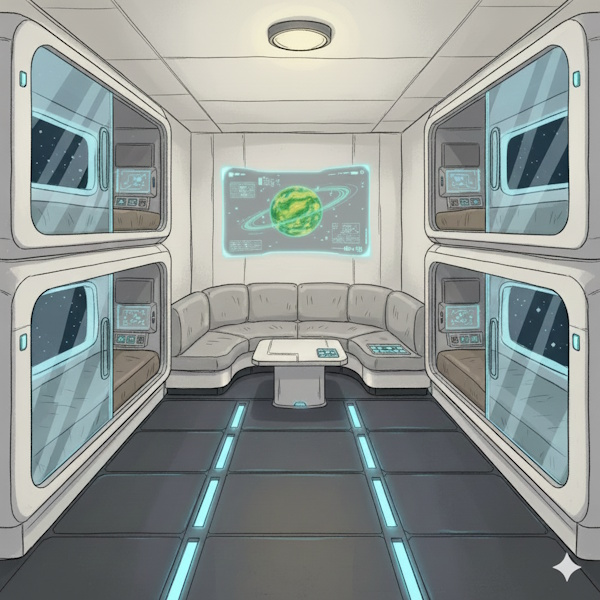
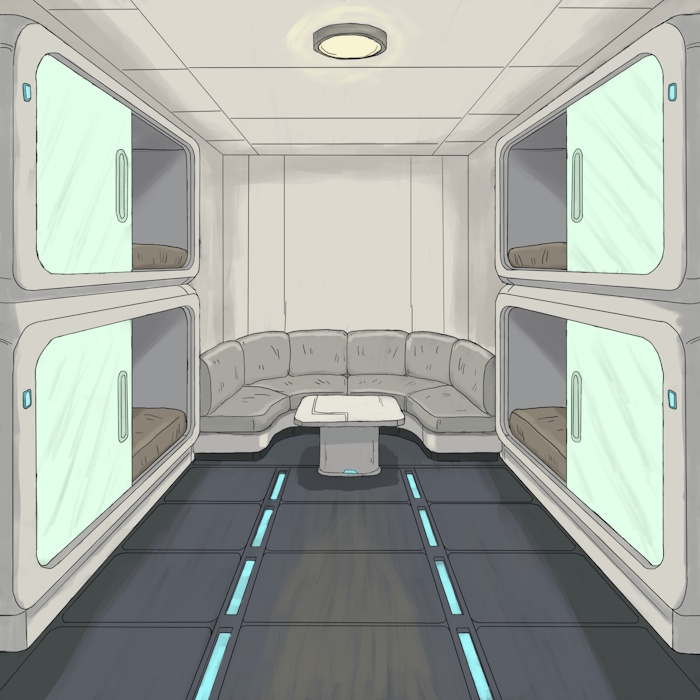
finalize bunks image

diff --git a/src/content/challenges-part1.js b/src/content/challenges-part1.js
@@ -116,7 +116,7 @@ export const part1 = [
 
           <p>sehr cool, dass du dich fürs Hacken interessierst und mit uns reist! Das ist also unsere Kajüte. Ganz schön winzig, uff. Genauso eng wie Naxion. Dieser blöde Planet ist zwar meine Heimat, aber damn, bin ich froh, da wegzukommen.</p>
 
-          <img src="/story/bunks.jpg" style="width:300px; margin-bottom: 24px; margin-top: 12px; border-radius: 16px; filter: drop-shadow(0 4px 8px rgba(255, 255, 255, 0.2));" alt="4er-Kajüte">
+          <img src="/story/bunks.jpg" style="width:350px; margin-bottom: 24px; margin-top: 12px; border-radius: 16px; filter: drop-shadow(0 4px 8px rgba(0, 0, 0, 0.2));" alt="4er-Kajüte">
 
           <p>In den zwei Monaten auf diesem Raumschiff kann ich dir einige Tricks beibringen. Wobei du Hacken am besten lernst, wenn du es selber machst. Dafür habe ich dir ganz viele Aufgaben vorbereitet! Suche bei jeder Aufgabe nach einer Antwort, die du unten ins Eingabefeld tippst. Gelöste Aufgaben schalten neue Aufgaben frei. Bei der Wahl der Hilfsmittel gibt es keine Grenzen. Du darfst tun, was immer dir nützlich ist.</p>
 
